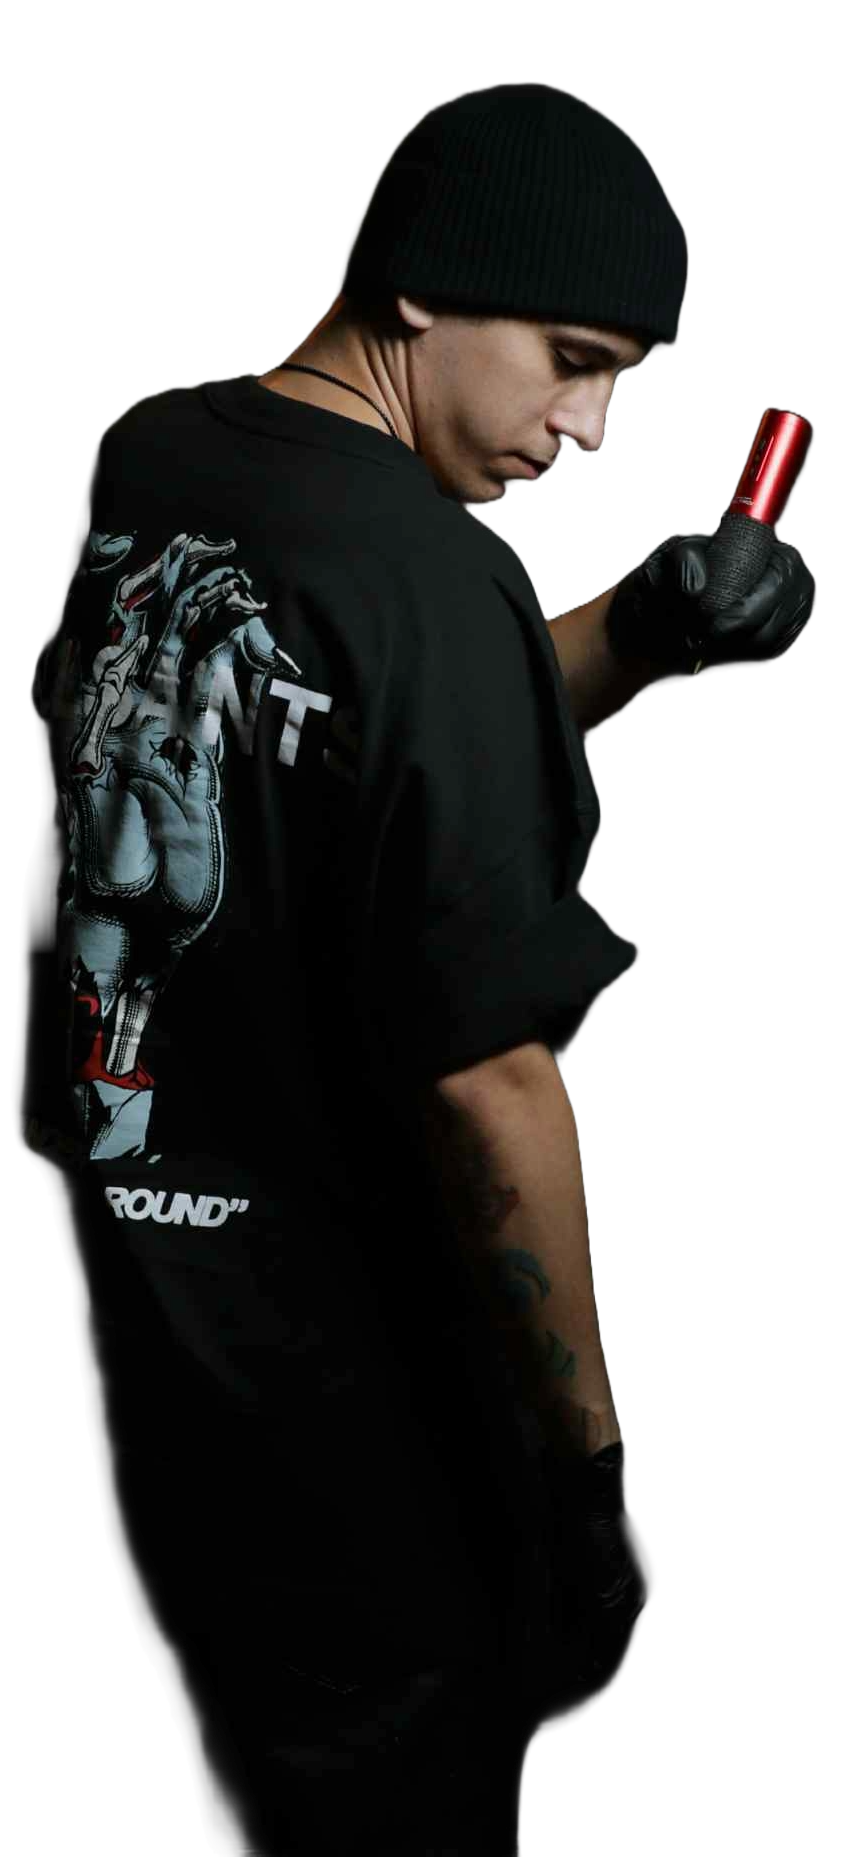
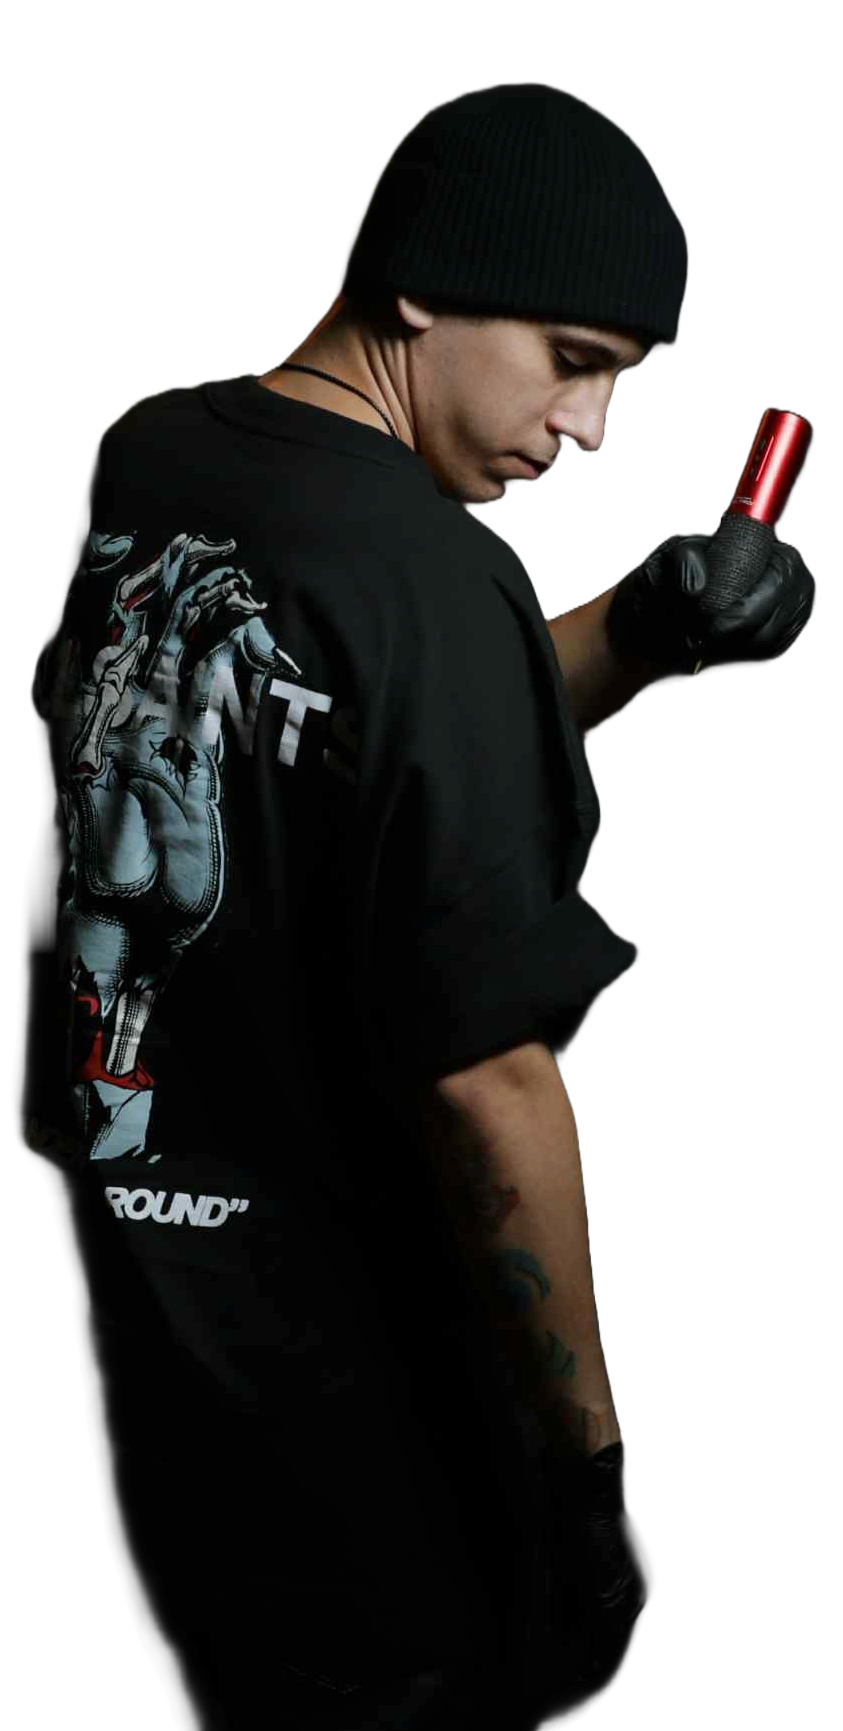
Add short description section

diff --git a/src/pages/home/home.scss b/src/pages/home/home.scss
@@ -4,7 +4,7 @@
     flex-direction: row;
     justify-content: center;
     align-items: center;
-    width: 100vw;
+    height: 92vh;
     gap: 8%;
     .writings {
       width: 200px;
@@ -23,7 +23,7 @@
       h1,
       p,
       span {
-        width: 100%; /* Ensure all child elements respect the parent width */
+        width: 100%;
       }
     }
     .image {
@@ -31,6 +31,18 @@
         width: 400px;
         height: auto;
       }
+    }
+  }
+  .short-description {
+    display: flex;
+    flex-direction: column;
+    align-items: center;
+    justify-content: center;
+    text-align: center;
+    p {
+      font-size: 2em;
+      width: 650px;
+      text-align: center;
     }
   }
 }

diff --git a/src/pages/home/Home.tsx b/src/pages/home/Home.tsx
@@ -14,10 +14,16 @@ const Home = () => {
           <span className="corinthia-regular">Filip Skotarczak</span>
         </div>
         <div className="image">
-          <img src="/scott-photos/main-no-bg-2.png" alt="" />
+          <img src="/scott-photos/main-no-bg.png" alt="" />
         </div>
       </section>
-      <h2>Warto walczyć o swoje marzenia!</h2>
+      <section className="short-description">
+        <h2>Warto walczyć o swoje marzenia!</h2>
+        <p>
+          W przyszłości chcę otworzyć własne studio, które mam nadzieję
+          zaszczyci mnie Twoją obecnością!
+        </p>
+      </section>
     </div>
   );
 };

diff --git a/src/styles/global.scss b/src/styles/global.scss
@@ -13,7 +13,7 @@
   display: flex;
   flex-direction: column;
   min-height: 100vh;
-  min-width: 100vw;
+  width: 100vw;
   background-color: constants.$main-bg;
   color: constants.$text-color;
 
@@ -26,6 +26,7 @@
     display: flex;
     flex-direction: column;
     flex-grow: 1;
+    width: 100%;
     .contentContainer {
       width: 100%;
       flex-grow: 1;
@@ -36,6 +37,10 @@
 h1 {
   font-size: 4em;
   margin-block: -15px;
+}
+
+h2 {
+  font-size: 2.8em;
 }
 
 h3 {
